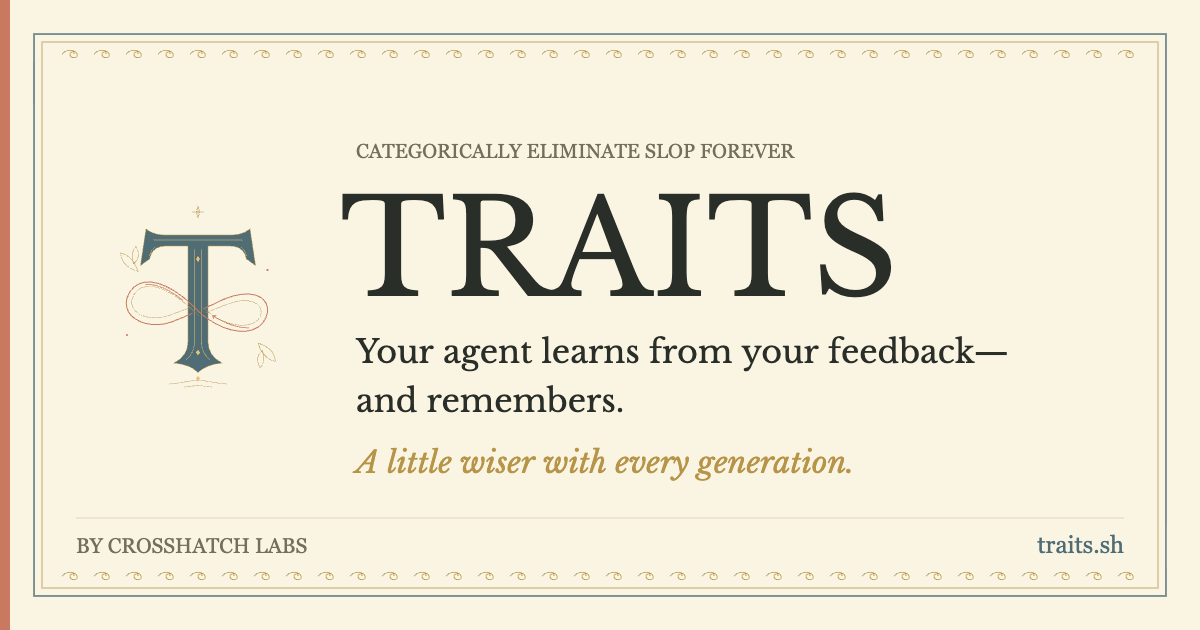
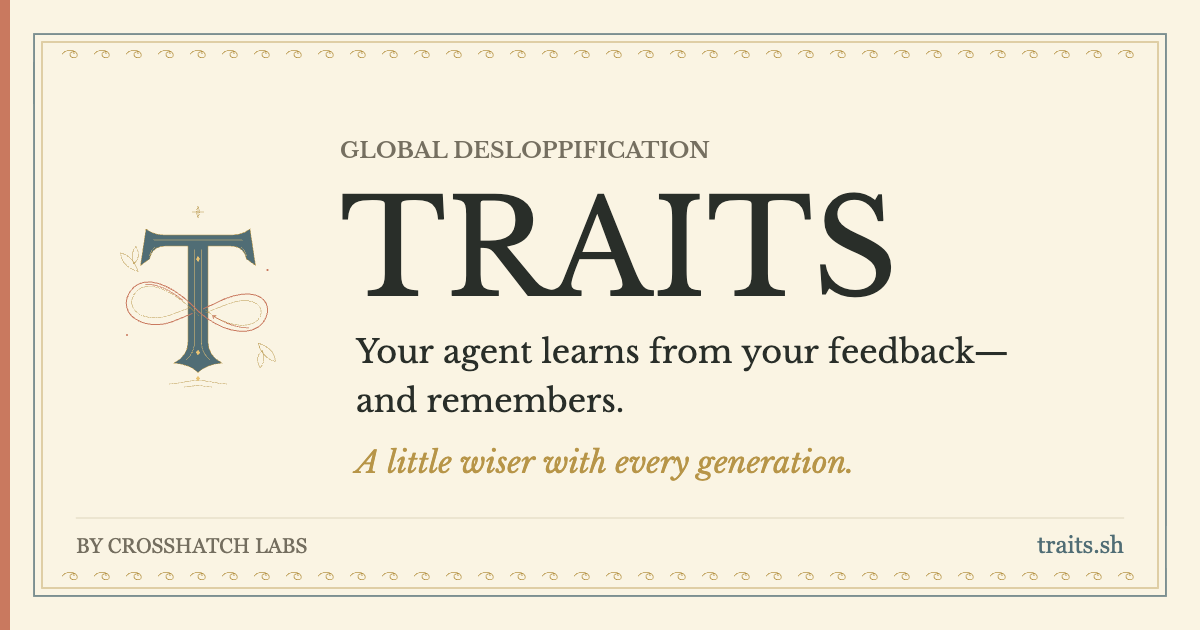
Update social card tagline to Global desloppification (#26)

Changed region(s): [[0.2775, 0.2111, 0.6475, 0.2714]]

diff --git a/traits.sh/index.html b/traits.sh/index.html
@@ -8,14 +8,14 @@
       content="Your agent learns from your feedback—and remembers. A little wiser with every generation."
     />
     <meta name="theme-color" content="#faf4e3" />
-    <title>Traits — A field guide to better habits</title>
+    <title>Traits — Global desloppification</title>
     <link rel="canonical" href="https://traits.sh/" />
     <link rel="icon" type="image/svg+xml" href="/traits-mark.svg" />
     <meta property="og:type" content="website" />
     <meta property="og:site_name" content="Traits" />
     <meta property="og:locale" content="en_US" />
     <meta property="og:url" content="https://traits.sh/" />
-    <meta property="og:title" content="Traits — Categorically eliminate slop forever" />
+    <meta property="og:title" content="Traits — Global desloppification" />
     <meta
       property="og:description"
       content="Your agent learns from your feedback—and remembers. A little wiser with every generation."
@@ -27,12 +27,12 @@
     <meta property="og:image:height" content="630" />
     <meta
       property="og:image:alt"
-      content="Traits on warm parchment, with an ornamental T. Categorically eliminate slop forever. Your agent learns from your feedback—and remembers. A little wiser with every generation."
+      content="Traits on warm parchment, with an ornamental T. Global desloppification. Your agent learns from your feedback—and remembers. A little wiser with every generation."
     />
     <meta name="twitter:card" content="summary_large_image" />
     <meta name="twitter:site" content="@CrosshatchDev" />
     <meta name="twitter:creator" content="@harrysolovay" />
-    <meta name="twitter:title" content="Traits — Categorically eliminate slop forever" />
+    <meta name="twitter:title" content="Traits — Global desloppification" />
     <meta
       name="twitter:description"
       content="Your agent learns from your feedback—and remembers. A little wiser with every generation."
@@ -40,7 +40,7 @@
     <meta name="twitter:image" content="https://traits.sh/og.png" />
     <meta
       name="twitter:image:alt"
-      content="Traits on warm parchment, with an ornamental T. Categorically eliminate slop forever. Your agent learns from your feedback—and remembers. A little wiser with every generation."
+      content="Traits on warm parchment, with an ornamental T. Global desloppification. Your agent learns from your feedback—and remembers. A little wiser with every generation."
     />
   </head>
   <body>
